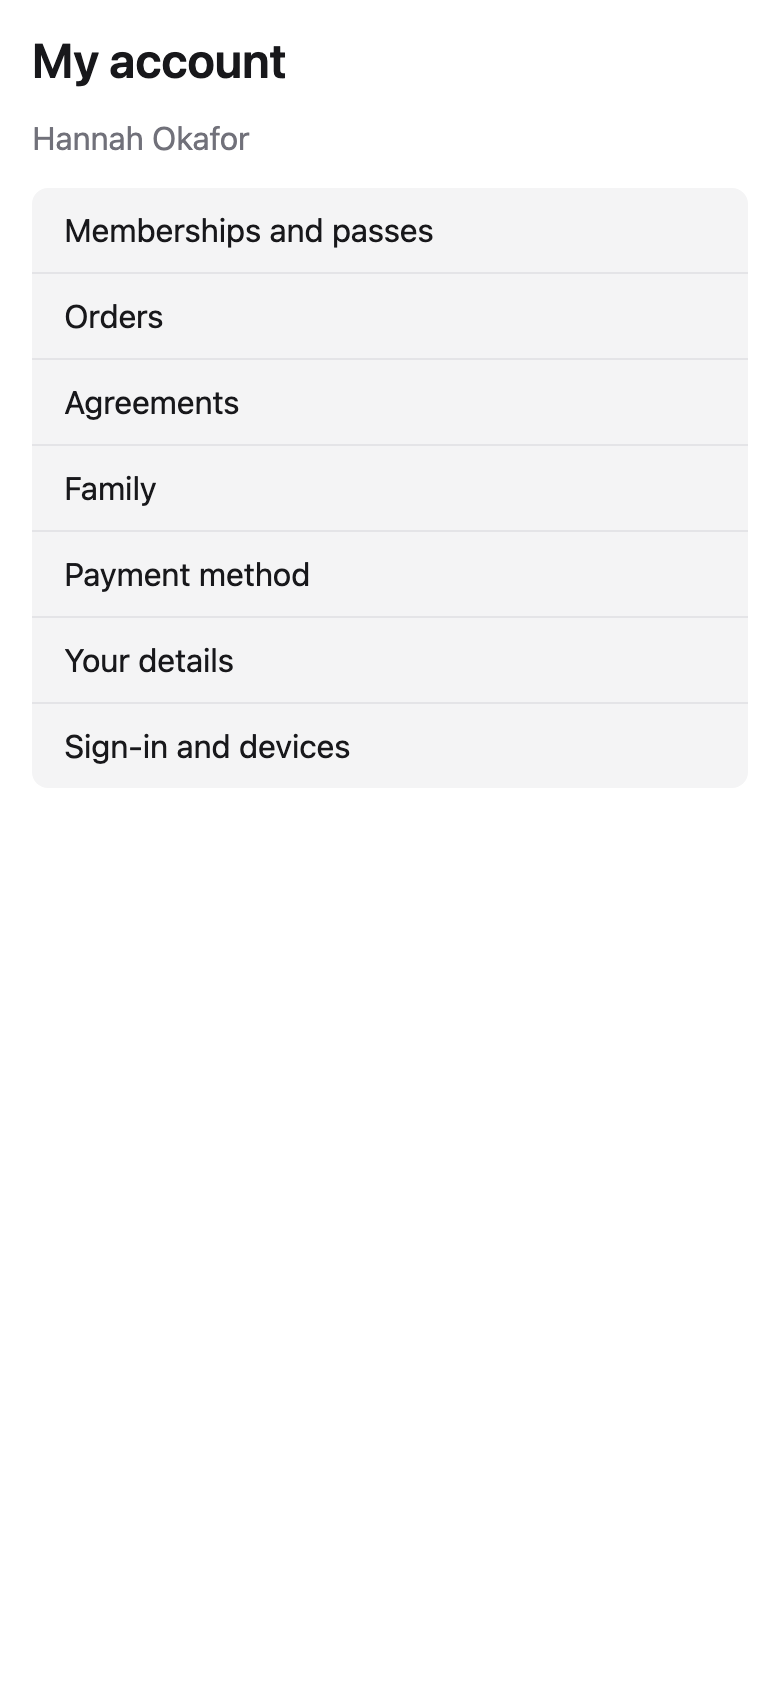
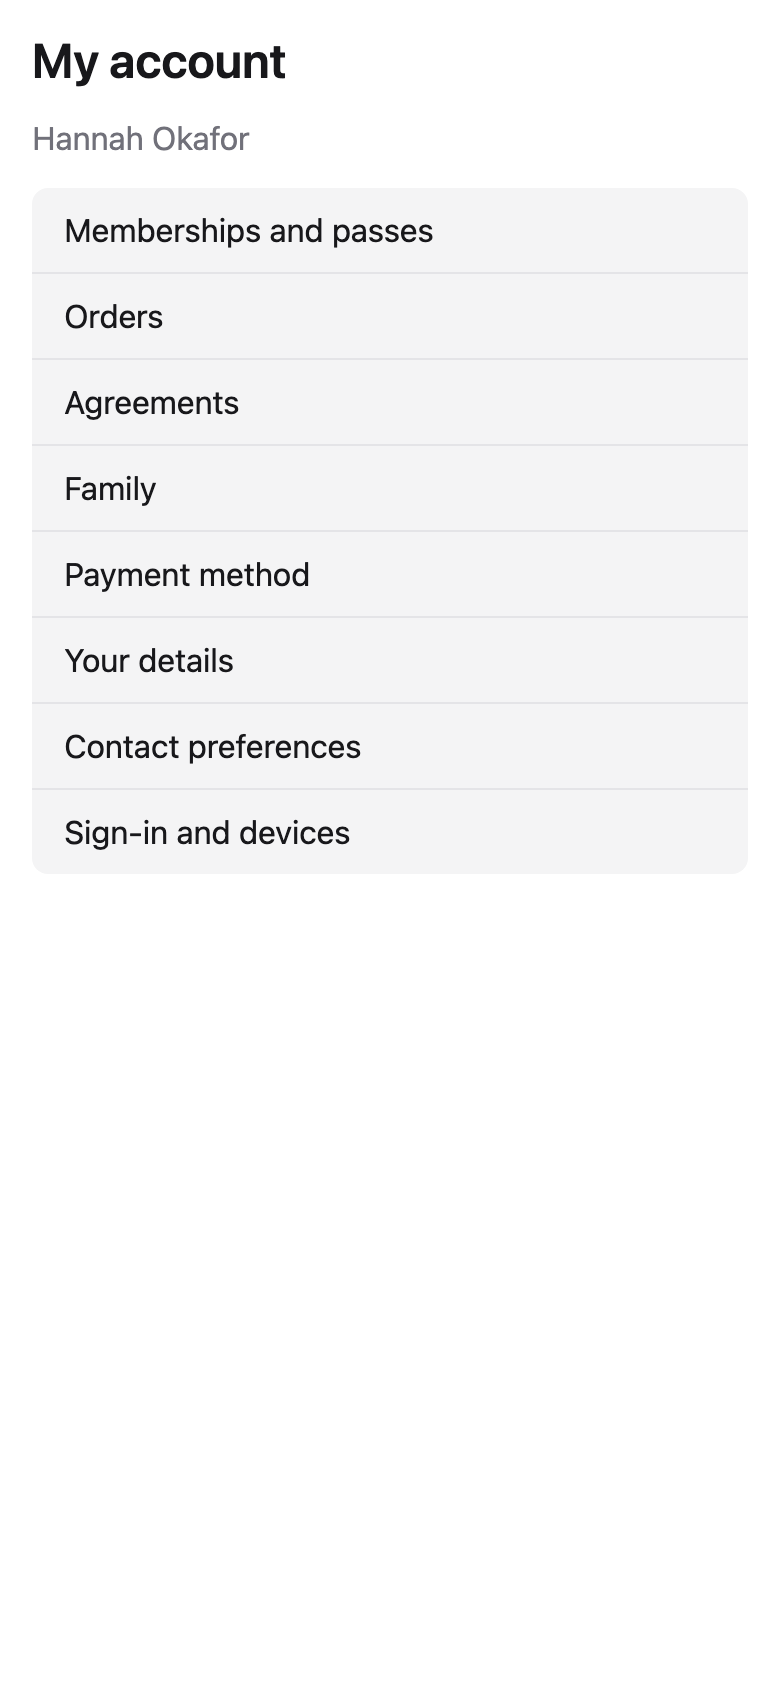
Pictures of the Contact preferences blocks, the account screens redrawn; step 5's Status in the new format

Changed region(s): [[0.0923, 0.4313, 0.4615, 0.5237]]

diff --git a/apps/screens/previews/data/account.ts b/apps/screens/previews/data/account.ts
@@ -112,6 +112,14 @@ export const portal: AccountPortal = {
     { key: "payment", pack: null, label: "Payment method", order: 85, web: null, native: null },
     { key: "details", pack: null, label: "Your details", order: 90, web: null, native: null },
     {
+      key: "contact",
+      pack: null,
+      label: "Contact preferences",
+      order: 92,
+      web: null,
+      native: null,
+    },
+    {
       key: "devices",
       pack: null,
       label: "Sign-in and devices",
@@ -119,6 +127,74 @@ export const portal: AccountPortal = {
       web: null,
       native: null,
     },
+  ],
+};
+
+// --- Contact preferences (stage 30): `me.contact.choices` ---------------------------------------
+
+const channel = (
+  name: "email" | "text" | "push",
+  value: "on" | "off" | "yes" | "no",
+  extra: { fixed?: boolean; stopped?: boolean } = {},
+) => ({
+  channel: name,
+  value,
+  fixed: extra.fixed ?? false,
+  stopped: extra.stopped ?? false,
+  since: value === "on" || value === "no" ? null : at("08:10"),
+});
+
+const bookingLines = (child: boolean) => [
+  {
+    scope: "bookings.confirmation",
+    label: "Booking confirmations",
+    description: "When a class is booked, and when a booking is cancelled.",
+    purpose: "account" as const,
+    essential: true,
+    channels: [channel("email", "on", { fixed: true }), channel("push", "on")],
+  },
+  {
+    scope: "bookings.reminder",
+    label: "Class reminders",
+    description: "A reminder a few hours before a booked class.",
+    purpose: "account" as const,
+    essential: false,
+    channels: [channel("email", child ? "on" : "off"), channel("push", "on")],
+  },
+  {
+    scope: "follow_up",
+    label: "Follow-ups",
+    description: "A welcome, a check-in when we have not seen you, a request for a review.",
+    purpose: "follow_up" as const,
+    essential: false,
+    channels: [
+      channel("email", "on"),
+      channel("text", "off", { stopped: true }),
+      channel("push", "on"),
+    ],
+  },
+];
+
+export const contactChoices: Out<"me.contact.choices"> = {
+  people: [
+    {
+      personId: HANNAH,
+      name: "Hannah Okafor",
+      self: true,
+      child: false,
+      lines: [
+        ...bookingLines(false),
+        {
+          scope: "news_and_offers",
+          label: "News and offers",
+          description: "News, offers and promotions. Only with your yes.",
+          purpose: "news_and_offers",
+          essential: false,
+          channels: [channel("email", "yes"), channel("text", "no"), channel("push", "no")],
+        },
+      ],
+    },
+    { personId: LEO, name: "Leo Okafor", self: false, child: true, lines: bookingLines(true) },
   ],
 };
 
@@ -547,6 +623,7 @@ export function accountHooks(current: "browser" | "device") {
       "me.get": me,
       "me.birthday.get": birthday,
       "me.sessions.list": sessions(current),
+      "me.contact.choices": contactChoices,
       "me.family": family,
       "my.list": myList,
       "subscription.list": subscriptions,

diff --git a/apps/screens/previews/native-account-contact.tsx b/apps/screens/previews/native-account-contact.tsx
@@ -1,0 +1,14 @@
+import { ContactPreferences } from "../../../blocks/native-account-contact/contact.tsx";
+import { Screen } from "../../../blocks/native-base/screen.tsx";
+import { accountHooks } from "./data/account.ts";
+
+const account = accountHooks("device");
+
+/** Drawn as the account screen opens it: on a screen of its own, under the section's name. */
+export default function Preview() {
+  return (
+    <Screen title="Contact preferences">
+      <ContactPreferences account={account} />
+    </Screen>
+  );
+}

diff --git a/apps/screens/previews/web-account-contact.tsx b/apps/screens/previews/web-account-contact.tsx
@@ -1,0 +1,10 @@
+import { ContactPreferences } from "../../../blocks/web-account-contact/contact.tsx";
+import { accountHooks } from "./data/account.ts";
+
+const account = accountHooks("browser");
+
+export const width = 720;
+
+export default function Preview() {
+  return <ContactPreferences account={account} />;
+}

diff --git a/docs/stages/30-notifications.md b/docs/stages/30-notifications.md
@@ -55,7 +55,13 @@ coordinator as best practice the same day). Build may start.
   Migration 0911 (`core_text_spend`, `core_phone_check`, `core_text_stop`), ADRs 0672 and 0673.
   Not built: a real provider module (with the first business's account, step 8); STOP is kept in
   `core_text_stop`, which step 5's suppression list reads for texts.
-- Step 5, the consent register and `contact.stop` (`feat/stage-30-consent`): built.
+
+- **Step 4** — not built — needs: step 1 — Push gatekeeper (prove the Worker reaches both push
+  services first), devices, the template's app, staff push.
+
+- **Step 5** — in progress — branch `feat/stage-30-consent` — The consent register,
+  `contactDecision`, `stopLink`, `contact.stop`, the List-Unsubscribe headers, contact preferences
+  blocks. Built on the branch (in review):
   `packages/core/src/contact/`: the register (`core_contact_choice`, append-only, the latest row
   per Person, channel and scope in force), the suppression list (`core_contact_suppression`, which
   took in `core_text_stop`: STOP and START write it now), `contactDecision` with its nine reasons
@@ -77,13 +83,6 @@ coordinator as best practice the same day). Build may start.
   called by Forms or checkouts; the push claim (step 4) must ask the register as the text claim
   does; a staff screen for a Person's choices (step 7 reads `contact.forPerson`). Not tried for
   real: a mail app's one-click against a deployed stop route, and the native block on a phone.
-
-- **Step 4** — not built — needs: step 1 — Push gatekeeper (prove the Worker reaches both push
-  services first), devices, the template's app, staff push.
-
-- **Step 5** — in progress — branch `feat/stage-30-consent` — The consent register,
-  `contactDecision`, `stopLink`, `contact.stop`, the List-Unsubscribe headers, contact preferences
-  blocks.
 
 - **Step 6** — not built — needs: step 1 — The business's wording, versions, preview.
 

diff --git a/apps/docs/src/content/docs/reference/blocks/web-account.md b/apps/docs/src/content/docs/reference/blocks/web-account.md
@@ -6,7 +6,7 @@ editUrl: false
 
 My account (stage 48), for the web: the signed-in customer's own area, one page of sections. The base sections come with it: Orders, Agreements, Family, Payment method (only for someone who pays a subscription), Your details, Contact preferences (stage 30) and Sign-in and devices. The packs' sections are passed in `sections`, each the pack's own block, and take their place by `order` (a pack's come first). It decides nothing: which sections this customer has, in what order, and whether Payment method shows is the host's answer (me.portal, ADR 0710); what each section shows is the host's answer to the section's own call. `cos add web-account` copies the packs' section blocks and writes `../account-sections.gen.ts`, which names them; the page passes them through `usePackSections`: import { ACCOUNT_SECTIONS } from "../blocks/account-sections.gen.ts"; const react = { useQuery, useMutation, useState, useEffect }; // at module level: made once const sections = usePackSections(ACCOUNT_SECTIONS, react, api, returnUrl); &lt;MyAccount account={account} agreements={agreements} sections={sections} … /&gt; so the page names no pack. A later step adds "Needs your attention" at the top (me.attention).
 
-<img class="cos-screen" src="/screens/web-account.png" alt="web-account, drawn with dummy data" width="1024" height="3906" loading="lazy" decoding="async" />
+<img class="cos-screen" src="/screens/web-account.png" alt="web-account, drawn with dummy data" width="1024" height="5012" loading="lazy" decoding="async" />
 
 Drawn with dummy data.
 

diff --git a/apps/docs/src/content/docs/reference/blocks/native-account-contact.md b/apps/docs/src/content/docs/reference/blocks/native-account-contact.md
@@ -6,6 +6,10 @@ editUrl: false
 
 Contact preferences (stage 30, ADR 0675), for the mobile app: each kind of message the signed-in customer may get, on each channel it goes by, and the same for each child they act for. A tap turns one channel on or off (news and offers: yes or no, with the words shown). What may change is the host's answer (me.contact.choices, me.contact.setChoices): a booking's or a payment's email is always sent and shows as such; a child is never asked about news and offers.
 
+<img class="cos-screen cos-screen-native" src="/screens/native-account-contact.png" alt="native-account-contact, drawn with dummy data" width="390" height="844" loading="lazy" decoding="async" />
+
+Drawn with dummy data.
+
 |  |  |
 | --- | --- |
 | Skin | native |

diff --git a/apps/docs/src/content/docs/reference/blocks/web-account-contact.md b/apps/docs/src/content/docs/reference/blocks/web-account-contact.md
@@ -6,6 +6,10 @@ editUrl: false
 
 Contact preferences (stage 30, ADR 0675), for the web: each kind of message the signed-in customer may get, on each channel it goes by, and the same for each child they act for. A tap turns one channel on or off (news and offers: yes or no, with the words shown). What may change is the host's answer (me.contact.choices, me.contact.setChoices): a booking's or a payment's email is always sent and shows as such; a child is never asked about news and offers.
 
+<img class="cos-screen" src="/screens/web-account-contact.png" alt="web-account-contact, drawn with dummy data" width="720" height="1050" loading="lazy" decoding="async" />
+
+Drawn with dummy data.
+
 |  |  |
 | --- | --- |
 | Skin | web |
